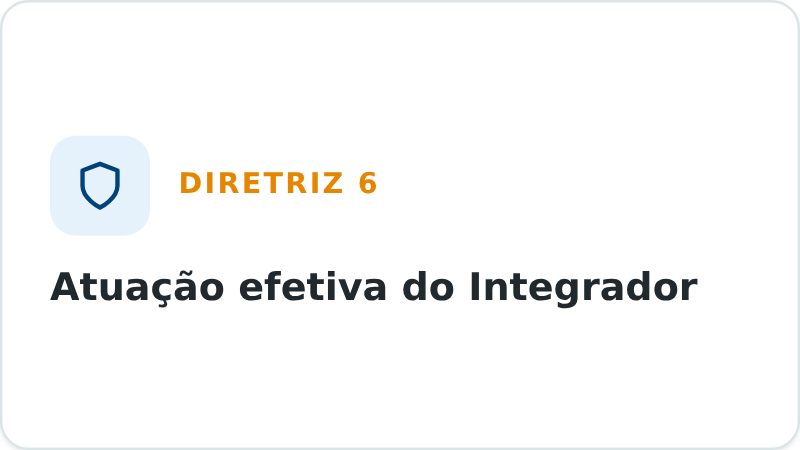
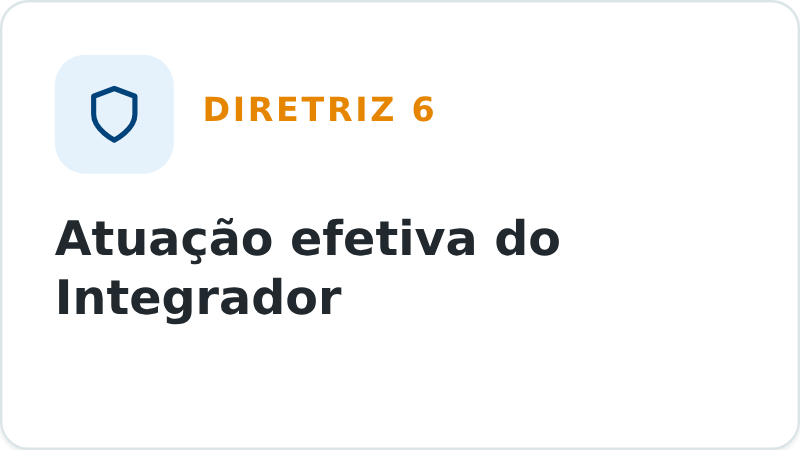
Rebalance the diretriz cards
The card is 16:9 while the prototype's is taller than wide, so composing at the
print's 42/12/16 left the content adrift in the middle with empty room above and
below. Content now sits at the top, as on the page, and grows into the space:
icon 50px, kicker 14px, title 20px -- the largest body in which all thirteen
titles still fit in three lines, measured, with 21px overflowing the longest.

The icon-only set shares no space with a title, so it scales further, to a 78px
icon and a 20px label. That makes width the binding constraint there, so the
overflow guard now measures both axes instead of height alone.

Claude-Session: https://claude.ai/code/session_019NmiVkfk9ZXceb87ffsC4p

diff --git a/prototypes/versionamento-codigo/sharepoint/gerar-cartoes-diretrizes.js b/prototypes/versionamento-codigo/sharepoint/gerar-cartoes-diretrizes.js
@@ -23,11 +23,22 @@ const SAIDA = {
   titulo: path.join(__dirname, 'cartoes-diretrizes-titulo'),
 };
 
-// O cartão é medido no tamanho em que aparece no protótipo (~330px de largura),
-// para que os 16px do h3 tenham o mesmo peso do print. 336x189 é 16:9, a
-// proporção que o web part Links Rápidos recorta no layout Bloco.
+// 336x189 é 16:9, a proporção que o web part Links Rápidos recorta no layout
+// Bloco. O cartão do protótipo tem essa largura, mas é mais alto do que largo:
+// aqui sobra altura, então ícone e tipografia crescem sobre a medida do print
+// (42/12/16) para ocupar o cartão. 20px no h3 é o maior corpo em que os treze
+// títulos ainda cabem em três linhas — com 21px o mais longo encosta na borda.
 const CARD = [336, 189];
 const EXPORT = [800, 450];
+const PAD = 22;
+const GAP = 15;
+const CX_ICONE = 50;
+const CORPO_NUM = 14;
+const CORPO_TITULO = 20;
+// sem título para dividir o espaço, ícone e rótulo crescem até quase encostar
+// nas laterais: "DIRETRIZ 13" a 20px já é a linha mais larga que cabe
+const CX_ICONE_SO = 78;
+const CORPO_NUM_SO = 20;
 
 // mesma spec de .ql-icon: caixa 42px raio 11px, glifo 22px
 const TILE = 120;
@@ -96,18 +107,24 @@ const iconeSvg = (glifo, rotulo) => `<svg xmlns="http://www.w3.org/2000/svg" vie
     colorScheme: 'light',
   });
   await pCard.goto(`file://${path.join(RAIZ, 'diretrizes.html')}`);
-  await pCard.evaluate(([w, h]) => {
+  await pCard.evaluate((v) => {
     document.documentElement.classList.remove('app-dark');
     const s = document.createElement('style');
-    // sem "Abrir" o conteúdo fica centrado: encostá-lo no topo deixaria um
-    // vazio embaixo que o cartão original não tem, porque lá o link ocupa a base
     s.textContent = `html,body{margin:0;padding:0;background:transparent;overflow:hidden}
-      #alvo{width:${w}px;height:${h}px;box-sizing:border-box;justify-content:center}
-      /* só o ícone e o número, encostados à esquerda, deixariam metade do 16:9
-         vazia; com o título embaixo o alinhamento à esquerda do print se mantém */
-      #alvo.so-numero{align-items:center}`;
+      #alvo{width:${v.w}px;height:${v.h}px;box-sizing:border-box;padding:${v.PAD}px;gap:${v.GAP}px}
+      #alvo .ql-icon{width:${v.CX_ICONE}px;height:${v.CX_ICONE}px;border-radius:${Math.round(v.CX_ICONE * 11 / 42)}px}
+      #alvo .ql-icon svg{width:${Math.round(v.CX_ICONE * 22 / 42)}px;height:${Math.round(v.CX_ICONE * 22 / 42)}px}
+      #alvo .ql-num{font-size:${v.CORPO_NUM}px}
+      #alvo h3{font-size:${v.CORPO_TITULO}px;line-height:1.24}
+      /* só o ícone e o número, encostados no canto, deixariam o 16:9 vazio;
+         com o título embaixo vale o topo à esquerda do print */
+      #alvo.so-numero{justify-content:center;align-items:center}
+      #alvo.so-numero .ql-top{gap:18px}
+      #alvo.so-numero .ql-icon{width:${v.CX_ICONE_SO}px;height:${v.CX_ICONE_SO}px;border-radius:${Math.round(v.CX_ICONE_SO * 11 / 42)}px}
+      #alvo.so-numero .ql-icon svg{width:${Math.round(v.CX_ICONE_SO * 22 / 42)}px;height:${Math.round(v.CX_ICONE_SO * 22 / 42)}px}
+      #alvo.so-numero .ql-num{font-size:${v.CORPO_NUM_SO}px}`;
     document.head.appendChild(s);
-  }, CARD);
+  }, { w: CARD[0], h: CARD[1], PAD, GAP, CX_ICONE, CORPO_NUM, CORPO_TITULO, CX_ICONE_SO, CORPO_NUM_SO });
 
   for (const conjunto of ['numero', 'titulo']) {
     for (const { svg, n, titulo } of lista) {
@@ -120,16 +137,25 @@ const iconeSvg = (glifo, rotulo) => `<svg xmlns="http://www.w3.org/2000/svg" vie
           `<span class="ql-num">Diretriz ${n}</span></div>${corpo}</div>`;
       }, { svg, n, corpo, classe });
 
-      // texto que estoura o cartão sairia cortado em silêncio
+      // texto que estoura o cartão sairia cortado em silêncio. A altura aperta
+      // nos títulos longos; a largura, na linha "DIRETRIZ N" ampliada — por isso
+      // as duas são medidas.
       const vaza = await pCard.evaluate(() => {
         const c = document.getElementById('alvo');
         const cs = getComputedStyle(c);
-        const util = c.clientHeight - parseFloat(cs.paddingTop) - parseFloat(cs.paddingBottom);
-        const alto = [...c.children].reduce((a, e) => a + e.getBoundingClientRect().height, 0) +
-          parseFloat(cs.rowGap || 0) * (c.children.length - 1);
-        return { estoura: alto > util + 0.5, alto: Math.round(alto), util: Math.round(util) };
+        const filhos = [...c.children];
+        const utilY = c.clientHeight - parseFloat(cs.paddingTop) - parseFloat(cs.paddingBottom);
+        const utilX = c.clientWidth - parseFloat(cs.paddingLeft) - parseFloat(cs.paddingRight);
+        const alto = filhos.reduce((a, e) => a + e.getBoundingClientRect().height, 0) +
+          parseFloat(cs.rowGap || 0) * (filhos.length - 1);
+        const largo = Math.max(...filhos.map((e) => e.getBoundingClientRect().width));
+        return {
+          estoura: alto > utilY + 0.5 || largo > utilX + 0.5,
+          medida: `${Math.round(largo)}x${Math.round(alto)}`,
+          util: `${Math.round(utilX)}x${Math.round(utilY)}`,
+        };
       });
-      if (vaza.estoura) throw new Error(`"${titulo}" não cabe: ${vaza.alto}px em ${vaza.util}px`);
+      if (vaza.estoura) throw new Error(`"${titulo}" não cabe: ${vaza.medida} em ${vaza.util}`);
 
       const nome = `diretriz-${String(n).padStart(2, '0')}-${slug(titulo)}.png`;
       await pCard.locator('#alvo').screenshot({
